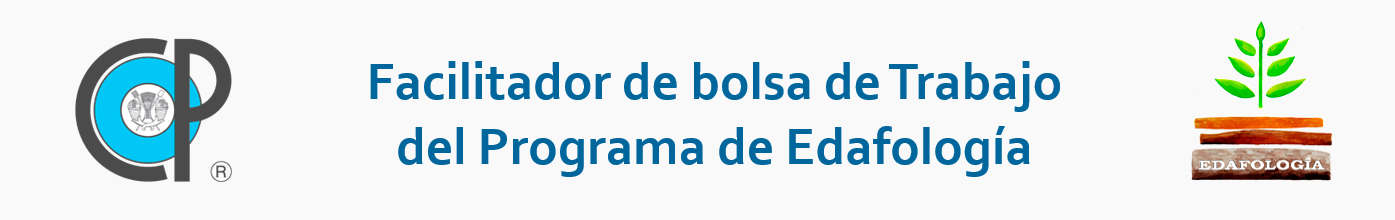
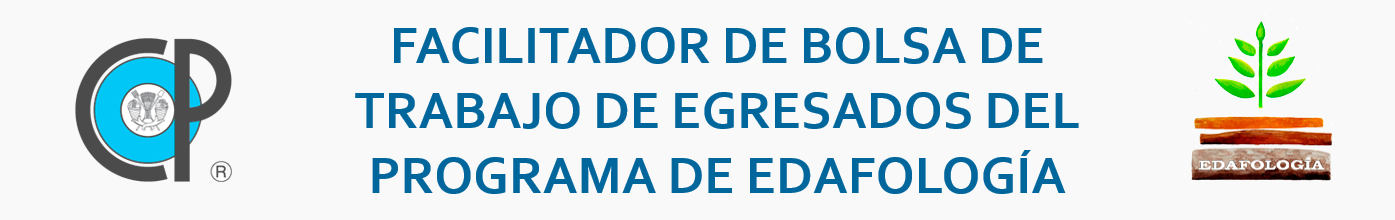
fix: sections

Changed region(s): [[0.2466, 0.1091, 0.7706, 0.9]]

diff --git a/index.html b/index.html
@@ -1,5 +1,6 @@
 <!DOCTYPE html>
 <html lang="en">
+
 <head>
     <meta charset="UTF-8">
     <meta name="viewport" content="width=device-width, initial-scale=1.0">
@@ -10,66 +11,75 @@
     <link rel="icon" href="favicon.ico" sizes="any">
     <link rel="icon" type="image/png" sizes="32x32" href="favicon.png">
 
-    <meta name="description" content="Facilitador de bolsa de Trabajo del Programa de Edafología Sandoval Villa Manuel">
-    <meta name="author" content="Manuel Sandoval Villa">
+    <meta name="description" content="Facilitador de bolsa de Trabajo del Programa de Edafología">
+    <meta name="author" content="Ph.D. Manuel Sandoval Villa">
 </head>
+
 <body>
     <header>
-        <img src="/assets/banner_facilitador_trabajo.png" alt="">
+        <section class="banner"></section>
         <nav>
             <a href="">Acerca de</a>
             <a href="">Galería</a>
             <a href="">Contacto</a>
         </nav>
-        <h1>Facilitador de bolsa de Trabajo del Programa de Edafología</h1>
     </header>
 
     <main>
         <section id="inicio">
             <h2>Acerca de</h2>
             <p>
-                Lorem ipsum dolor sit amet, consectetur adipiscing elit. Etiam lobortis orci volutpat neque ullamcorper, et congue tortor molestie. 
-                Phasellus a libero tristique, tincidunt velit ac, tristique odio. Pellentesque ultrices risus leo, quis rutrum erat posuere et. 
-                Integer ornare ipsum vestibulum nulla convallis venenatis. Pellentesque vel vestibulum metus. Vestibulum ante ipsum primis in faucibus orci
-                luctus et ultrices posuere cubilia curae; Ut ac condimentum sapien.
+                Facilitador de bolsa de Trabajo de egresados del Programa de Edafología es una plataforma para coadyuvar
+                en la búsqueda de empleo de los egresados del Programa en Edafología.
+            </p>
+        </section>
+        <section id="instituciones">
+            <h2>Instituciones Posibles Empleadoras de Egresados de Edafología</h2>
+            <p>
+                En esta sección se encuentran enlaces a la bolsa de trabajo de posibles empleadores de egresados de
+                Doctor en ciencias en Edafología
+            </p>
+            <div class="links-jobs">
+                <ul>
+                    <li><a href="https://mx.indeed.com/q-agricola-l-texcoco,-m%C3%A9x.-empleos.html?vjk=7f02f33eff9488b1">Industria Agrícola</a></li>
+                    <li><a href="https://www.catie.ac.cr/empleo/">CATIE</a></li>
+                    <li><a href="https://iica.int/es/vacantesmx/">Instituto Interamericano de Cooperación para la Agricultura</a></li>
+                    <li><a href="https://www.apizaco.tecnm.mx/convocatorias-de-plazas/">Tecnológico Nacional de México</a></li>
+                    <li><a href="https://www.syngenta.com.mx/vacantes">SYNGENTA</a></li>
+                    <li><a href="https://www.gob.mx/inifap/acciones-y-programas/convocatorias-2022">INIFAP</a></li>
+                    <li><a href="https://www.fao.org/employment/es">FAO</a></li>
+                    <li><a href="https://www.gob.mx/agricultura/documentos/plazas-vacantes-2025-398617?idiom=es">Agricultura</a></li>
+                    <li><a href="https://www.gob.mx/senasica/documentos/quieres-trabajar-en-el-senasica">SENASICA</a></li>
+                    <li><a href="https://csaegro.agricultura.gob.mx/es/convocatorias-academicas-2024">Colegio Superior Agropecuario del Estado de Guerrero</a></li>
+                    <li><a href="https://dgetaycm.sep.gob.mx/storage/recursos/2025/11/i7rOz2b3e9-PLAZAS%20VACANTES%20CORRIMIENTOS%20.pdf">Dirección General de Educación Tecnológica  Agropecuaria y Ciencias del Mar</a></li>
+                </ul>
+            </div>
+        </section>
+        <section id="proyectos">
+            <h2>Proyectos Actuales</h2>
+            <p>
+                En esta sección aparecen los proyectos del Programa y las grandes tendencias de la Ciencia del Suelo y
+                de la Edafología.
             </p>
         </section>
         <section id="egresados">
             <h2>Egresados</h2>
             <p>
-                Lorem ipsum dolor sit amet, consectetur adipiscing elit. Etiam lobortis orci volutpat neque ullamcorper, et congue tortor molestie. 
-                Phasellus a libero tristique, tincidunt velit ac, tristique odio. Pellentesque ultrices risus leo, quis rutrum erat posuere et. 
-                Integer ornare ipsum vestibulum nulla convallis venenatis. Pellentesque vel vestibulum metus. Vestibulum ante ipsum primis in faucibus orci
-                luctus et ultrices posuere cubilia curae; Ut ac condimentum sapien.
-            </p>
-        </section>
-        <section id="proyectos">
-            <h2>Proyectos Actuales</h2>
-            <p>
-                Lorem ipsum dolor sit amet, consectetur adipiscing elit. Etiam lobortis orci volutpat neque ullamcorper, et congue tortor molestie. 
-                Phasellus a libero tristique, tincidunt velit ac, tristique odio. Pellentesque ultrices risus leo, quis rutrum erat posuere et. 
-                Integer ornare ipsum vestibulum nulla convallis venenatis. Pellentesque vel vestibulum metus. Vestibulum ante ipsum primis in faucibus orci
-                luctus et ultrices posuere cubilia curae; Ut ac condimentum sapien.
+                Perfiles de egresados del Edafología, contactos, testimonios, etc.
             </p>
         </section>
         <section id="galeria">
             <h2>Galería</h2>
             <p>
-                Lorem ipsum dolor sit amet, consectetur adipiscing elit. Etiam lobortis orci volutpat neque ullamcorper, et congue tortor molestie. 
-                Phasellus a libero tristique, tincidunt velit ac, tristique odio. Pellentesque ultrices risus leo, quis rutrum erat posuere et. 
-                Integer ornare ipsum vestibulum nulla convallis venenatis. Pellentesque vel vestibulum metus. Vestibulum ante ipsum primis in faucibus orci
-                luctus et ultrices posuere cubilia curae; Ut ac condimentum sapien.
+                Fotografías de egresados destacados
             </p>
         </section>
         <section id="ubicacion">
             <h2>Ubicación</h2>
             <div class="map-container">
-                <iframe src="https://www.google.com/maps/embed?pb=!1m18!1m12!1m3!1d1880.9104529698254!2d-98.90830983365079!3d19.463286948265726!2m3!1f0!2f0!3f0!3m2!1i1024!2i768!4f13.1!3m3!1m2!1s0x85d1e6beba937cdb%3A0xde0527f53a543570!2sEdafologia%20e%20Hidrociencias!5e0!3m2!1ses-419!2smx!4v1769531514384!5m2!1ses-419!2smx"
-                    width="400"
-                    height="300" 
-                    style="border:0;"
-                    allowfullscreen="" 
-                    loading="lazy" 
+                <iframe
+                    src="https://www.google.com/maps/embed?pb=!1m18!1m12!1m3!1d1880.9104529698254!2d-98.90830983365079!3d19.463286948265726!2m3!1f0!2f0!3f0!3m2!1i1024!2i768!4f13.1!3m3!1m2!1s0x85d1e6beba937cdb%3A0xde0527f53a543570!2sEdafologia%20e%20Hidrociencias!5e0!3m2!1ses-419!2smx!4v1769531514384!5m2!1ses-419!2smx"
+                    width="400" height="300" style="border:0;" allowfullscreen="" loading="lazy"
                     referrerpolicy="no-referrer-when-downgrade">
                 </iframe>
                 <p>
@@ -80,19 +90,47 @@
         <section id="sitios">
             <h2>Sitios de interés</h2>
             <p>
-                Lorem ipsum dolor sit amet, consectetur adipiscing elit. Etiam lobortis orci volutpat neque ullamcorper, et congue tortor molestie. 
-                Phasellus a libero tristique, tincidunt velit ac, tristique odio. Pellentesque ultrices risus leo, quis rutrum erat posuere et. 
-                Integer ornare ipsum vestibulum nulla convallis venenatis. Pellentesque vel vestibulum metus. Vestibulum ante ipsum primis in faucibus orci
-                luctus et ultrices posuere cubilia curae; Ut ac condimentum sapien.
+                <a href="https://www.smcsmx.org/">
+                    Sitio de la Sociedad Mexicana de la Ciencia del Suelo
+                </a>
+            </p>
+            <p>
+                <a href="https://www.iuss.org/">
+                    Union of Soil Science (IUSS)
+                </a>
+            </p>
+            <p>
+                <a href="https://www.gob.mx/agricultura">
+                    Secretaría de Agricultura y Desarrollo Rural
+                </a>
+            </p>
+            <p>
+                <a href="https://www.sedema.cdmx.gob.mx/">
+                    Secretaría del Medio Ambiente
+                </a>
+            </p>
+            <p>
+                <a href="https://www.gob.mx/conagua">
+                    Comisión Nacional del Agua
+                </a>
             </p>
         </section>
         <section id="contacto">
             <h2>Contacto</h2>
             <p>
-                Lorem ipsum dolor sit amet, consectetur adipiscing elit. Etiam lobortis orci volutpat neque ullamcorper, et congue tortor molestie. 
-                Phasellus a libero tristique, tincidunt velit ac, tristique odio. Pellentesque ultrices risus leo, quis rutrum erat posuere et. 
-                Integer ornare ipsum vestibulum nulla convallis venenatis. Pellentesque vel vestibulum metus. Vestibulum ante ipsum primis in faucibus orci
-                luctus et ultrices posuere cubilia curae; Ut ac condimentum sapien.
+                Coordinación del Programa en Edafología del Colegio de Postgraduados
+            </p>
+            <a href="mailto:edafologia@colpos.mx">
+                Contactanos
+            </a>
+            <p>
+                edafologia@colpos.mx
+            </p>
+            <p>
+                Teléfono: 5959520200
+            </p>
+            <p>
+                Ext. 1273
             </p>
         </section>
     </main>
@@ -103,4 +141,5 @@
 
     <script src="js/main.js"></script>
 </body>
+
 </html>

diff --git a/css/styles.css b/css/styles.css
@@ -50,3 +50,17 @@ footer {
 #ubicacion iframe {
     border-radius: 8px;
 }
+
+.banner {
+    height: 300px;
+    background-image: url("../assets/banner_facilitador_trabajo.png");
+    background-position: center;
+    background-size: cover;
+    background-repeat: no-repeat;
+
+    display: flex;
+    align-items: center;
+    justify-content: center;
+    text-align: center;
+    color: white;
+}
